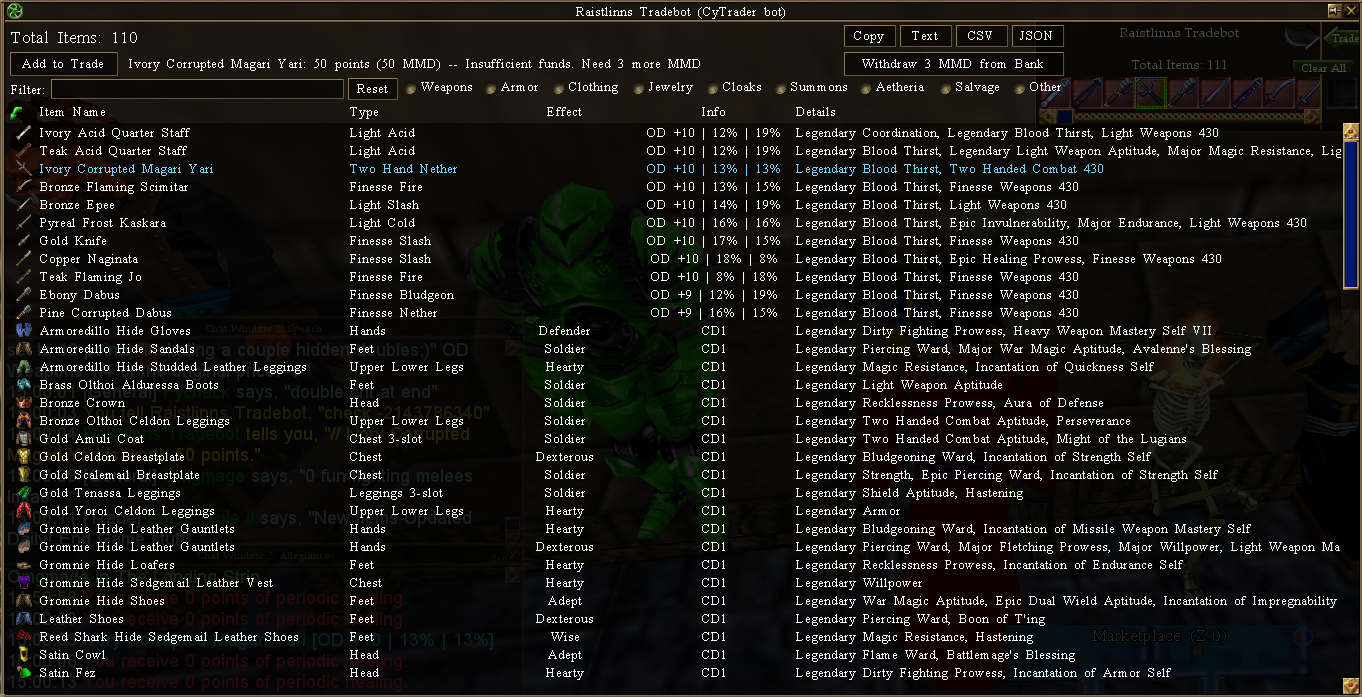
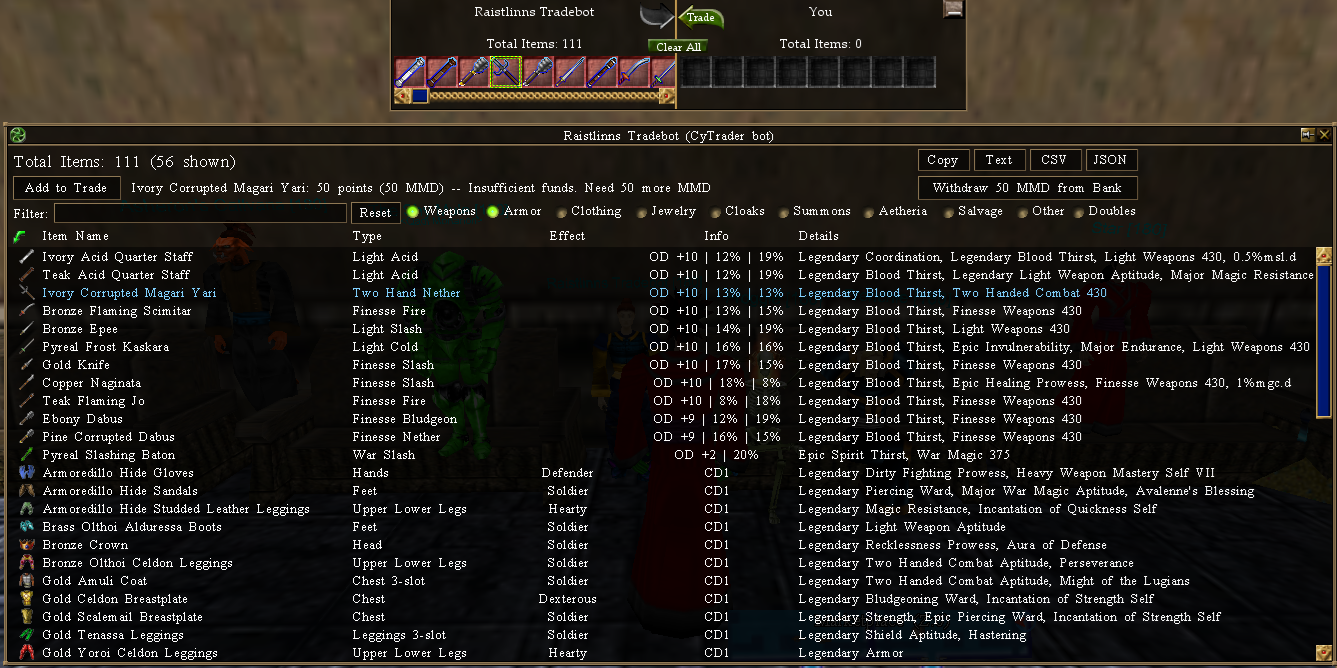
Version 1.14.0

diff --git a/OracleOfDereth/PluginCore.cs b/OracleOfDereth/PluginCore.cs
@@ -10,8 +10,8 @@ using WindowsTimer = System.Windows.Forms.Timer;
 
 [assembly: Guid("153809C7-5D30-12E1-8730-11111104AC1E")]
 
-[assembly: AssemblyVersion("1.13.0.0")]
-[assembly: AssemblyFileVersion("1.13.0.0")]
+[assembly: AssemblyVersion("1.14.0.0")]
+[assembly: AssemblyFileVersion("1.14.0.0")]
 
 namespace OracleOfDereth
 {

diff --git a/README.md b/README.md
@@ -2,14 +2,14 @@
 
 An [Asheron's Call](https://emulator.ac/how-to-play/) [Decal](https://decaldev.com/) plugin.
 
-Download the latest version: [Download Oracle of Dereth](https://github.com/advis61/OracleOfDereth/releases/download/1.13.0/OracleOfDerethInstaller-1.13.0.0.exe)
+Download the latest version: [Download Oracle of Dereth](https://github.com/advis61/OracleOfDereth/releases/download/1.14.0/OracleOfDerethInstaller-1.14.0.0.exe)
 
 To upgrade from a previous version, just download and re-run the .exe file.
 
 ## Getting Started
 - This plugin requires the latest [Decal](https://www.decaldev.com/), v2.9.8.3
 
-- Download the latest .exe from above. Or check out all [Oracle of Dereth Releases](https://github.com/advis61/OracleOfDereth/releases).
+- Download the latest .exe from above.
 
 - Run the .exe program.
 
@@ -22,6 +22,16 @@ To upgrade from a previous version, just download and re-run the .exe file.
 - If the game crashes at the login screen, make sure to upgrade to latest Decal v2.9.8.3
 
 ## Features
+
+Void Target View
+
+![Void Target View](./docs/Void.png)
+
+
+Trade Browser
+
+![Trade Browser](./docs/Trade.png)
+
 
 Status HUD
 
@@ -86,10 +96,6 @@ Flagging quests
 Titles
 
 ![Titles Tracker](./docs/Titles.png)
-
-Void Target View
-
-![Void Target View](./docs/Void.png)
 
 Summon Score
 
@@ -195,6 +201,18 @@ Displays your society, number of ribbons to next rank, number of ribbons today, 
 ### Titles Tracker
 
 Displays the titles you've completed.
+
+### Trade Browser
+
+Automatically displays whenever you open a trade window with another player or bot.
+
+- Smart Search & Sort: Displays a searchable, sortable list of items currently in the trade window.
+
+- Persistent ID Queue: Identifies items using a background priority queue and saves the item identification data between trades to minimize lag.
+
+- Trade Bot Automation: Intended to work alongside the [CyTrader](https://gitlab.com/Cyprias/cytrader) bot (no affiliation). When browsing a compatible bot, the plugin will automatically calculate points per item, add items to the trade window, and balance the transaction with the correct number of MMDs (Trade Notes).
+
+Important: Oracle of Dereth cannot automatically complete transactions. For safety, the player must always manually click the "Trade" button to finalize any deal.
 
 ### Void Target View
 